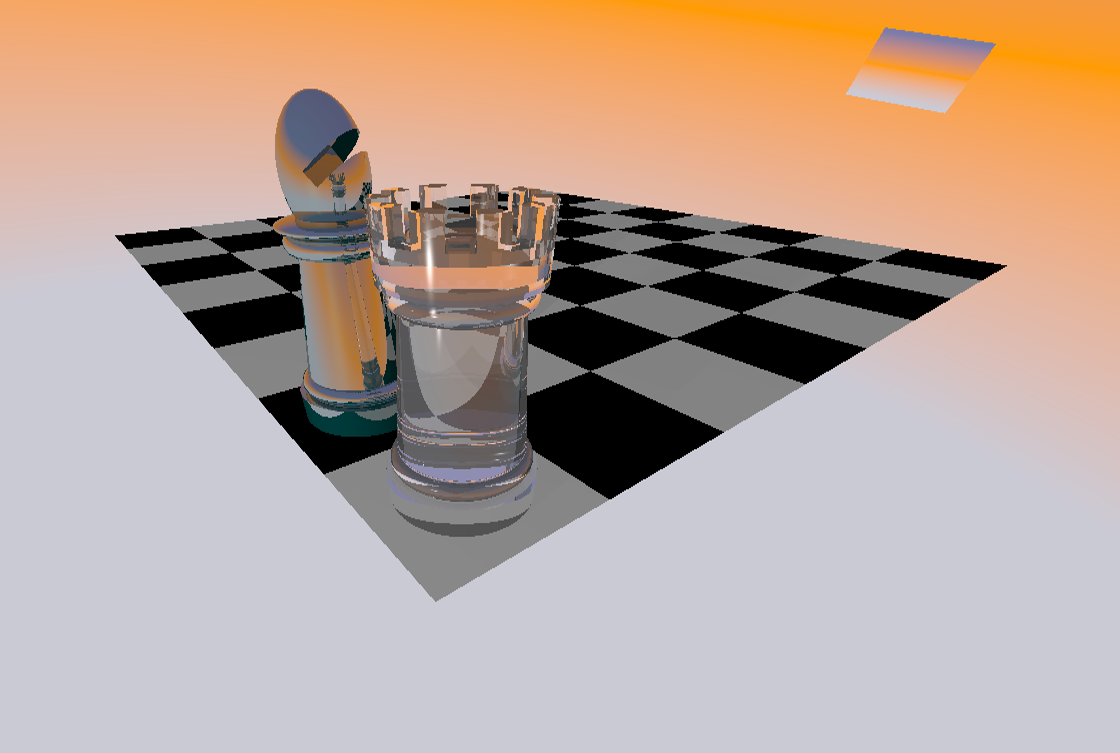
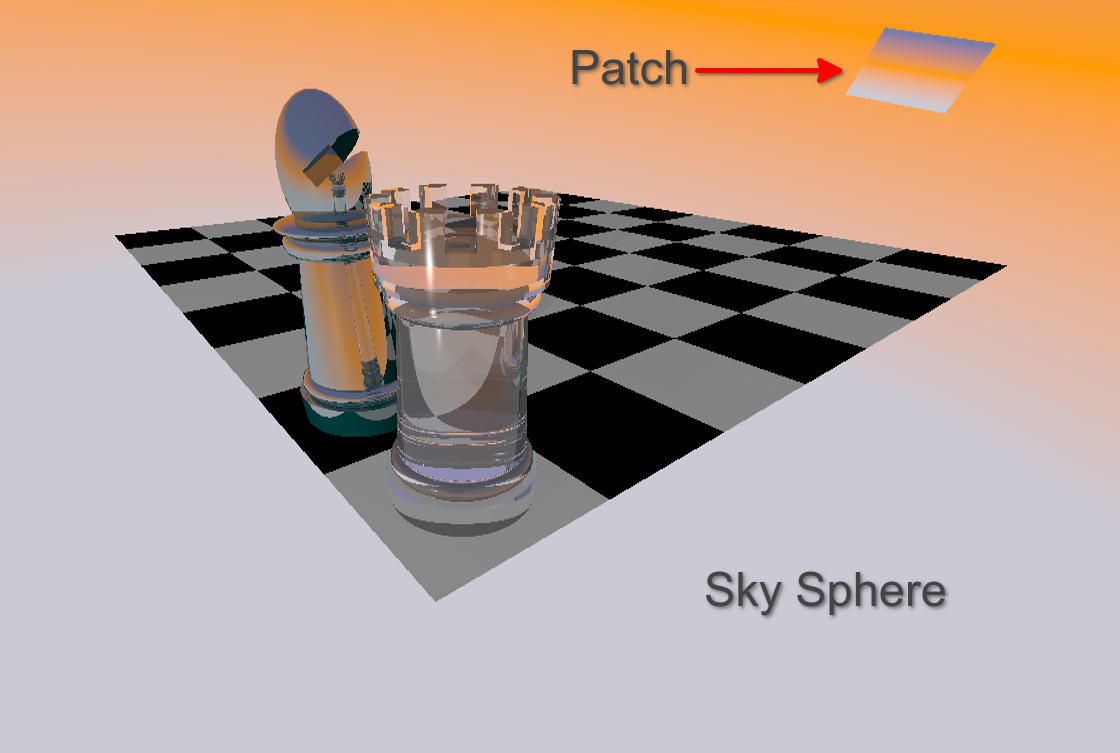
Improve documentation

Changed region(s): [[0.625, 0.7636, 0.8438, 0.8247], [0.5, 0.0611, 0.75, 0.1222]]

diff --git a/doc/tipsAndTricks.md b/doc/tipsAndTricks.md
@@ -5,7 +5,7 @@ So if your rendering looks not like you expected it may not be a bug, it can als
 
 ## The camera
 
-Normally you wont have to deal with camera settings. The macro both supports orthographic and perspective view. You just choose the view in FreeCAD and the result of the rendering should have the same point of view and viewing angle. There may be some clipping of the borders of the rendered image if the size of the viewport in FreeCAD isn't exacly the same size you choose in the Macro popup. If you choose the "Export FreeCAD View" option you will find a image of the FreeCAD view in your output folder with the size of the rendered image. It should match the camera perspective exactly.
+Normally you want have to deal with camera settings. The macro both supports orthographic and perspective view. You just choose the view in FreeCAD and the result of the rendering should have the same point of view and viewing angle. There may be some clipping of the borders of the rendered image if the size of the viewport in FreeCAD isn't exacly the same size you choose in the macro popup. If you choose the "Export FreeCAD View" option you will find a image of the FreeCAD view in your output folder with the size of the rendered image. It should match the camera perspective exactly.
 If you define your own camera in the .inc file the macro will detect this and the camera statement will be outcommented in the .pov file. If you want to use special camera types and effects from POV-Ray but still want to take the camera point of view from FreeCAD we provide some declarations in the .pov file that you can use in your .inc file:
 ```
 #declare CamUp = < 0, 0, 1>;
@@ -19,7 +19,7 @@ camera{
     up < 0, 1, 0>
     right< 1.33, 0, 0>
     ...
-    }
+}
 ```
 So y and z axis are swaped and the result ist a left handed coordinate system.
 You may ask why right is 1.33. This is the aspect ratio of your image - If the value ist not correct the rendered image will be streched or compressed.
@@ -36,7 +36,7 @@ and
 
 The Background of the rendered image was a challenge to implement. In FreeCAD you can choose the background colors via the settings menu. You can choose plain color or a gradient of two or three colors. The color you choose in the settings menu is not exactly the same you see in the viewport. FreeCAD darkens the Background slightly. So we had to make a decision either to take the original color or the darkened. We took the original - it looks bright and friendly.
 
-The background in POV-Ray is realised by a skysphere statement. [See POV-Ray wiki](http://www.povray.org/documentation/3.7.0/r3_4.html#r3_4_3_4)
+The background in POV-Ray is realised by a skysphere statement. See [POV-Ray Wiki](http://www.povray.org/documentation/3.7.0/r3_4.html#r3_4_3_4).
 It is like an infinite sphere around the scene. The skysphere is rotated according to the camera rotation. If you use your own camera declaration the background may tilt. If the tilted background affects your inner balance - switch it of in the macro dialog and declare your own.
 
 A further problem was the background for the orthographic camera. The skysphere won't render a color gradient even if declared. So we placed a patch with exactly the size of the orthographic camera view behind the scene. But we also add the skysphere for realistic reflection on the objects.
@@ -46,7 +46,8 @@ This "look from outside" illustrates the "orthographic background":
 
 ## Lights
 
-By default we defined a lightsource which is placed exactly at the position of the camera. If you switch it of some ambient light will remain. With our default lightsource the shadows are not so impressing. You can define as many lights as you want from different types in the .inc file. For more information about light see [POV-Ray wiki](http://www.povray.org/documentation/3.7.0/r3_4.html#r3_4_4).
+By default we defined a lightsource which is placed exactly at the position of the camera. If you switch it of some ambient light will remain. With our default lightsource the shadows are not so impressing. You can define as many lights as you want from different types in the .inc file. For more information about light see [POV-Ray Wiki](http://www.povray.org/documentation/3.7.0/r3_4.html#r3_4_4).  
+Alternative we made a template for you (in this example an area light with soft shadows): [Area Light Template](../Examples/Templates/AreaLight.inc)
 
 ## Textures and materials
 
@@ -65,22 +66,22 @@ This is the .inc file for the following example:
     texture {
         pigment { P_Chrome1 }
         finish { F_MetalD }
-        }
     }
+}
 
 #declare My_Box_material = material{
     texture {
         checker
-            texture { pigment{ color rgb <0,0,0> }}
-            texture { pigment{ color rgb <1,1,1> }}
-        }
+        texture { pigment{ color rgb <0,0,0> }}
+        texture { pigment{ color rgb <1,1,1> }}
     }
+}
 
 ```
 
 ![Object labels]( ./img/textures_1.png "Object labels")
 
-The first thing our macro will do ist to look for a .inc file with the same name as the .pov file in the same folder.
+The first thing our macro will do is to look for a .inc file with the same name as the .pov file in the same folder.
 For example the corresponding .inc file for "example.pov" is "example.inc".
 If the .inc file exsists it will be included in the .pov file with the following line:
 
@@ -97,20 +98,23 @@ material {My_Sphere_material}
 ```
 Because POV-Ray can't deal with spaces and special chars we use a replacement function.
 If you have problems with object labels just lookup the .pov file - every object has a outcommented header with the correct label.
-Everything put together this is how the sphere declaration in the .pov file looks like: 
+Everything put together this is how the sphere declaration in the .pov file looks like:
 
 ```
 //----- My_Sphere -----
-sphere { <0, 0, 0> 5 
+sphere { <0, 0, 0> 5
     translate <0.0, -6.0, 0.0>
-    
-material {My_Sphere_material}
+
+    material {My_Sphere_material}
 
 }
 ```
-It is important to take care of the material hirarchie. The macro looks only for the material statement to be replaced. In our example we use a predefined pigment and finish for the sphere. Both are two levels below below the material statement. And they need an additional include file: "metals.inc".
+It is important to take care of the material hierarchie. The macro looks only for the material statement to be replaced. In our example we use a predefined pigment and finish for the sphere. Both are two levels below below the material statement. And they need an additional include file. Put this line at the top of the inc file to include the file:
+```
+"metals.inc"
+```
 For a wrong syntax a error message will pop up where you can find some debugging information.
-Together with the [POV-Ray wiki](http://www.povray.org/documentation/3.7.0/r3_4.html#r3_4_6)  you will be able to create any texture you want.
+Together with the [POV-Ray Wiki](http://www.povray.org/documentation/3.7.0/r3_4.html#r3_4_6)  you will be able to create any texture you want.
 
 ## Object modelling
 
@@ -124,12 +128,10 @@ Together with the [POV-Ray wiki](http://www.povray.org/documentation/3.7.0/r3_4.
 * If you have a big scene with a lot of objects and many materials with light refraction, try a little size of the image first, because then you not must wait for a long time.
 * If you create a cut with two touching surfaces in FreeCAD, nothing remains. With POVray, however, an infinitely thin layer remains:
 
-  ![FreeCAD before cutting](img/tipsAndTricks/01_FC.png "FreeCAD before cutting")
-  ![POVray before cutting](img/tipsAndTricks/01_PR.png "POVray before cutting")
+  ![FreeCAD before cutting](img/BeforeCut.png "FreeCAD before cutting")
 
   Then you cut the two boxes.
 
-  ![FreeCAD after cutting](img/tipsAndTricks/02_FC.png "FreeCAD after cutting")
-  ![POVray after cutting](img/tipsAndTricks/02_PR.png "POVray after cutting")
+  ![FreeCAD after cutting](img/AfterCut.png "FreeCAD after cutting")
 
   To avoid this, the part to be removed should be slightly larger than the other part.
